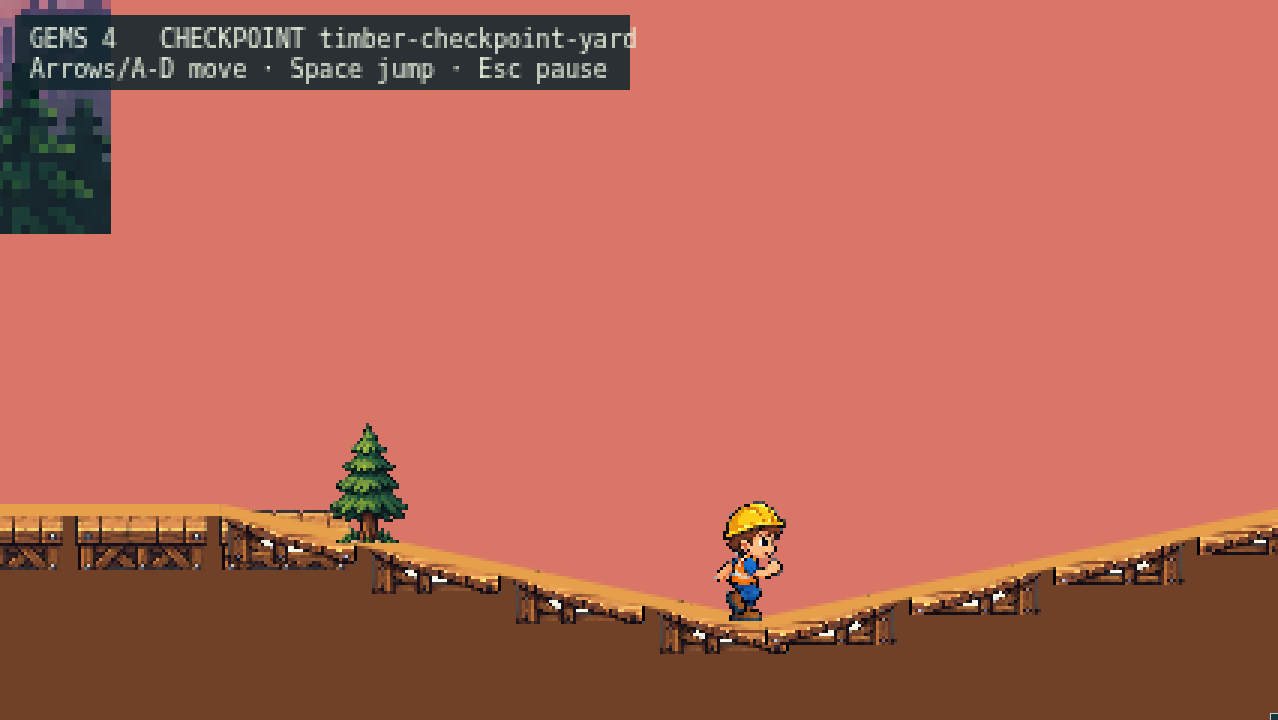
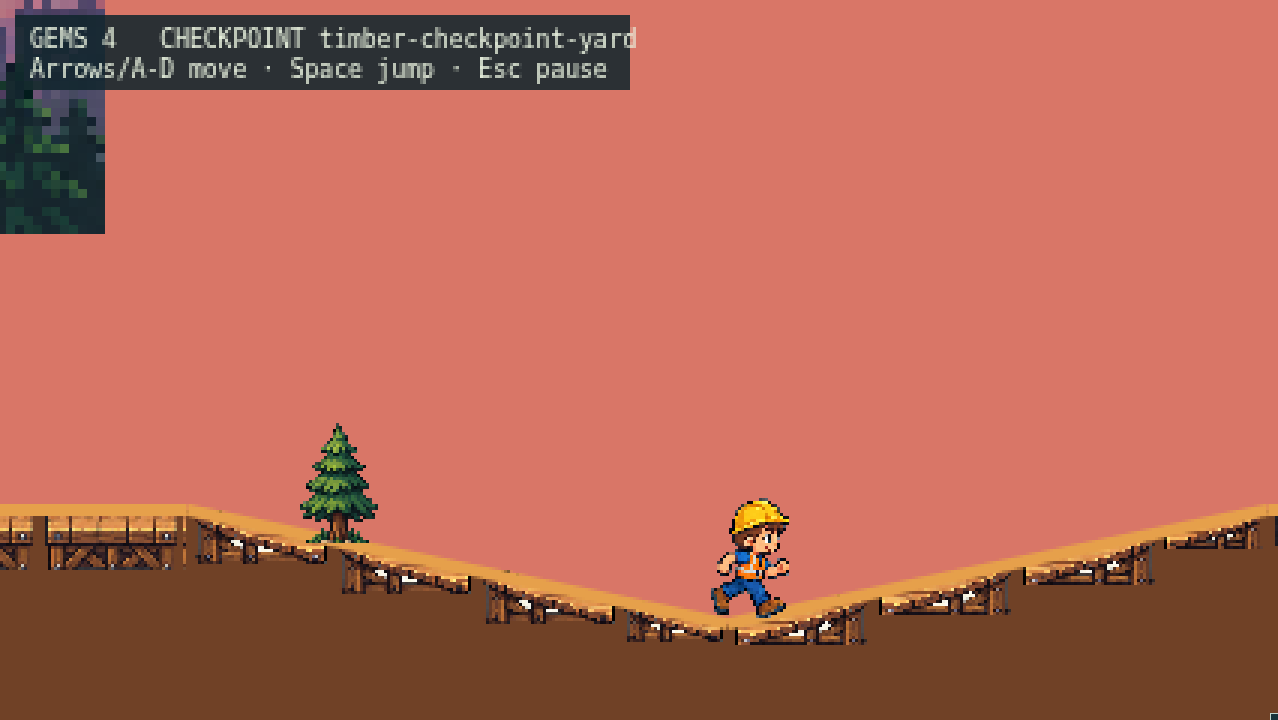
fix: fit timber tiles to surface boundaries

Changed region(s): [[0.0, 0.5806, 1.0, 0.9167], [0.0, 0.0, 0.0915, 0.3056], [0.0, 0.3056, 0.0305, 0.3361]]

diff --git a/src/world/renderer.ts b/src/world/renderer.ts
@@ -79,6 +79,7 @@ function drawTerrainTiles(ctx: CanvasRenderingContext2D, assets: WorldAssets, le
     for (let x = surface.x1; x < surface.x2; x += cell) {
       if (x + cell < offset.x || x > offset.x + 426) continue;
       const end = Math.min(x + cell, surface.x2);
+      const tileWidth = end - x;
       const y = surface.y1 + (surface.y2 - surface.y1) * ((x - surface.x1) / span);
       const asset: WorldAsset = x === level.minX ? 'terrain-left'
         : end === level.maxX ? 'terrain-right'
@@ -89,7 +90,7 @@ function drawTerrainTiles(ctx: CanvasRenderingContext2D, assets: WorldAssets, le
       const sourceY = Math.floor(index / 4) * cell;
       const tops = assets.manifest.terrainTops?.[asset] ?? { left: 0, right: 0 };
       const sourceRise = Math.abs(tops.right - tops.left);
-      const desiredRise = Math.abs((surface.y2 - surface.y1) / span * cell);
+      const desiredRise = Math.abs((surface.y2 - surface.y1) / span * tileWidth);
       const scaleY = asset === 'terrain-ramp' && sourceRise > 0 ? Math.min(1, desiredRise / sourceRise) : 1;
       const descending = asset === 'terrain-ramp' && surface.y2 > surface.y1;
       const startTop = descending ? tops.right : tops.left;
@@ -97,13 +98,13 @@ function drawTerrainTiles(ctx: CanvasRenderingContext2D, assets: WorldAssets, le
       const destinationHeight = cell * scaleY;
       if (descending) {
         ctx.save();
-        ctx.translate(x - offset.x + cell, 0);
+        ctx.translate(end - offset.x, 0);
         ctx.scale(-1, 1);
-        ctx.drawImage(assets.atlas, sourceX, sourceY, cell, cell, 0, destinationY, cell, destinationHeight);
+        ctx.drawImage(assets.atlas, sourceX, sourceY, cell, cell, 0, destinationY, tileWidth, destinationHeight);
         ctx.restore();
       } else {
         ctx.drawImage(assets.atlas, sourceX, sourceY, cell, cell,
-          x - offset.x, destinationY, cell, destinationHeight);
+          x - offset.x, destinationY, tileWidth, destinationHeight);
       }
     }
   }

diff --git a/tests/renderer.test.ts b/tests/renderer.test.ts
@@ -176,6 +176,31 @@ it('aligns flat and ramp artwork bounds with the playable contour', () => {
   expect(Number(ramp[6]) + 11 * scaleY).toBeCloseTo(surfaceY(TREETOP_TIMBERS, 1278), 5);
 });
 
+it.each([
+  { name: 'flat', y1: 180, y2: 180 },
+  { name: 'ascending', y1: 180, y2: 166 },
+  { name: 'descending', y1: 166, y2: 180 },
+])('keeps partial $name tiles inside their surface and aligned at its endpoint', ({ y1, y2 }) => {
+  const { ctx, images } = recordingContext();
+  const translate = vi.fn();
+  ctx.translate = translate;
+  const assets: WorldAssets = { atlas: {} as HTMLImageElement, manifest: timberManifest };
+  const level = { ...TREETOP_TIMBERS, minX: 0, maxX: 300, width: 300,
+    theme: { ...TREETOP_TIMBERS.theme, parallax: [] }, entities: [],
+    surfaces: [{ x1: 100, x2: 170, y1, y2 }],
+  };
+  drawWorld(ctx, assets, level, { position: { x: 0, y: 0 } } as Camera);
+  const tiles = images.filter((call) => call[2] === 0);
+  expect(tiles).toHaveLength(2);
+  const last = tiles[1];
+  expect(last[7]).toBe(22);
+  const descending = y2 > y1;
+  if (descending) expect(translate).toHaveBeenLastCalledWith(170, 0);
+  else expect(Number(last[5]) + Number(last[7])).toBe(170);
+  const topAtEnd = y1 === y2 ? 24 : descending ? 30 : 11;
+  expect(Number(last[6]) + topAtEnd * Number(last[8]) / 48).toBeCloseTo(y2, 5);
+});
+
 it('mirrors textured ramp cells when the terrain descends to the right', () => {
   const { ctx } = recordingContext();
   const scale = vi.fn();
